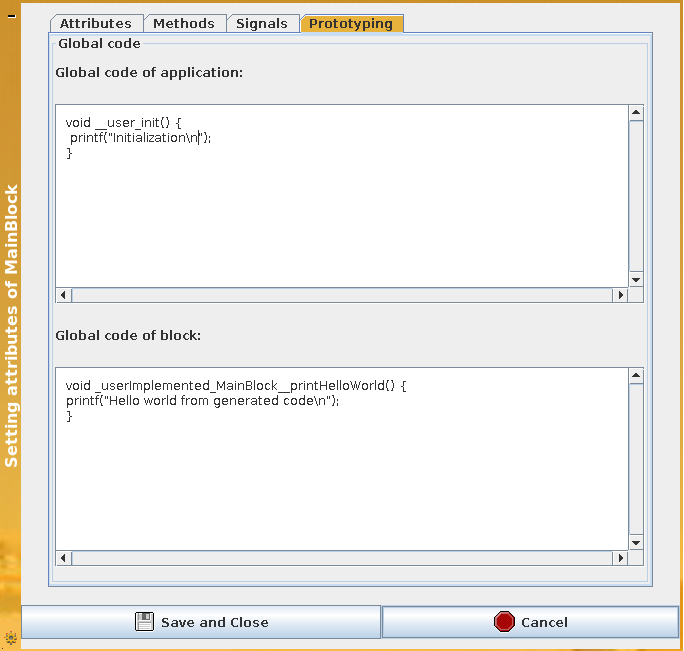
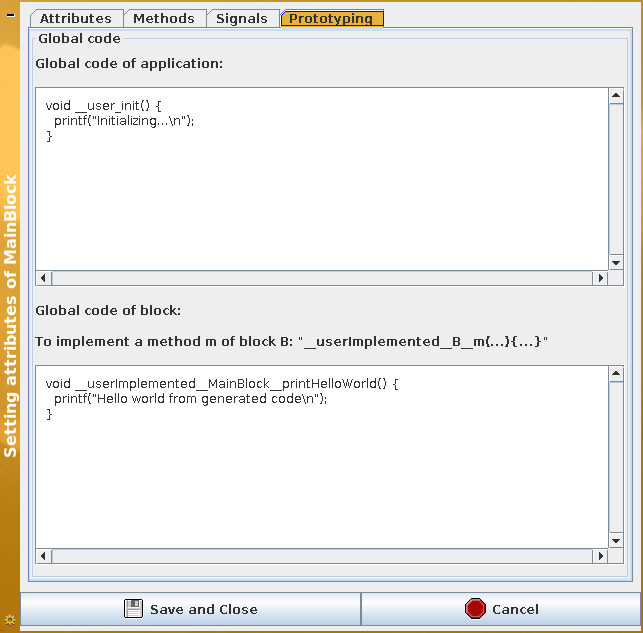
Update on code generation facility, adding one example, and update on code generation documentation

Changed region(s): [[0.0, 0.0, 1.0, 1.0], [0.0, 0.0, 0.0311, 0.03]]

diff --git a/doc/codegeneration/codegeneration_documentation.tex b/doc/codegeneration/codegeneration_documentation.tex
@@ -293,7 +293,7 @@ Basically, there are two types of custom code as show in the "prototyping" windo
 \begin{figure}[htbp]
 \centering
 \includegraphics[width=0.9\textwidth]{figures/customhelloworld}
-\caption{Executing the Hello world program} \label{fig:customhelloworld}
+\caption{Global code of an application and global code of a block} \label{fig:customhelloworld}
 \end{figure}
 
 \subsection{Global code}
@@ -309,9 +309,9 @@ void __user_init() {
 \end{lstlisting}
 
 \subsection{Block code}
-The block code typically contains variables that are not declared as block attributes. Block attributes can indeed be directly used in the custom code. The block code can also provide an implementation for the block methods. For a method called "method" of the block "block", the function must be declared as "\_userImplemented\_block\_method" and \textbf{you must ensure to check the "Implementation provided by the user" option} in the method definition window (see Figure \ref{fig:methodhelloworld}). For instance, the following code correesponds to the block code of "MainBlock". It implements the method \textit{printHelloWorld()} referenced in the model (see Figure \ref{fig:printhelloworld}).
+The block code typically contains variables that are not declared as block attributes. Block attributes can indeed be directly used in the custom code. The block code can also provide an implementation for the block methods. For a method called "method" of the block "block", the function must be declared as "\_\_userImplemented\_\_block\_\_method" and \textbf{you must ensure to check the "Implementation provided by the user" option} in the method definition window (see Figure \ref{fig:methodhelloworld}). For instance, the following code correesponds to the block code of "MainBlock". It implements the method \textit{printHelloWorld()} referenced in the model (see Figure \ref{fig:printhelloworld}).
 \begin{lstlisting}
-void _userImplemented_MainBlock__printHelloWorld() {
+void __userImplemented__MainBlock__printHelloWorld() {
   printf("Hello world from generated code\n");
 }
 \end{lstlisting}
@@ -341,8 +341,9 @@ This section explains how a code generated from TTool can be linked with an exte
 The TTool distribution includes an external software which represents a graphical user interface of a microwave system. The source code (in Java) of this software is located in "TTool/executablecode/example":
 \begin{lstlisting}
 $cd TTool/executablecode/example
-$ ls
-DatagramServer.java  Feeder.java  MainMicrowave.java  MicrowavePanel.java  README
+$ls
+DatagramServer.java  MainMicrowave.java           MicrowavePanel.java
+Feeder.java          MainPressureController.java  README
 \end{lstlisting}
 This directory contains the java sources as well as a README file. First compile the java source code, and then execute the GUI, as follows:
 \begin{lstlisting}
@@ -490,11 +491,11 @@ Then, we need to define the user defined C code for both \textit{openM()} and \t
 const char* openD = "Open Door";
 const char* closeD = "Close Door";
 
-void _userImplemented_Door__openM() {
+void __userImplemented__Door__openM() {
   sendDatagram(openD, 10);
 }
 
-void _userImplemented_Door__closeM() {
+void __userImplemented__Door__closeM() {
    sendDatagram(closeD, 10);
 }
 \end{lstlisting}
@@ -576,10 +577,10 @@ The method itself works as follows:
 \item It unlocks the mutex
 \end{enumerate}
 
-Then , the execution of the \textit{ControlPanel} block can continue with the sending of the "startButton" signal. Note that  this is thanks to the mutex facility that the datagram receinving facility and the \textit{ControlPanel} block cannot modify "start" at the same time.\\
+Then, the execution of the \textit{ControlPanel} block can continue with the sending of the "startButton" signal. Note that  this is thanks to the mutex facility that the datagram receinving facility and the \textit{ControlPanel} block cannot modify "start" at the same time.\\
 
 \begin{lstlisting}
-void _userImplemented_ControlPanel__start() {
+void __userImplemented__ControlPanel__start() {
   pthread_mutex_lock(&startMutex);
   printf("Waiting for next start");
   while(start < 1) {
@@ -590,6 +591,58 @@ void _userImplemented_ControlPanel__start() {
   printf("****** MW can start cooking\n");
 }
 \end{lstlisting}
+
+\newpage
+\section{Another exampe of advanced model enhancement with user code}\label{sec:otheradvanced}
+We now consider a PressureController (PC) system. This xml TTool model is available via the TTool model repository.
+\subsection{GUI}
+The TTool distribution includes an external software which represents a graphical user interface of the pressure controller environment: pressure sensor and alarm. The source code (in Java) of this software is located in "TTool/executablecode/example": \textit{MainPressureController.java}.
+ First compile the java source code, and then execute the GUI, as follows:
+\begin{lstlisting}
+$javac MainPressureController.java
+$java MainPressureController
+\end{lstlisting}
+A window similar to the one of Figure \ref{fig:guipc} should open. This window is not yet animated. To do so, we need to build the PC. The GUI and Pc exchange UDP packets to inform each other about modifications:
+\begin{itemize}
+\item Each time the slider is moved, a datagram packet with the pressure value is sent by GUI to PC.
+\item Each time the alarm actuator is triggered, a datagram packet is sent by PC to GUI. This packet contains "+" when the alarm must be activated, and "-" when it must be deactivated.
+\end{itemize}
+
+
+
+\begin{figure}[htbp]
+\centering
+\includegraphics[width=0.8\textwidth]{figures/guipc}
+\caption{Graphical User Interface of the Pressure Controller System} \label{fig:guipc}
+\end{figure}
+
+\subsection{Pressure Controller (PC)}
+The Pressure Controller is build upon a set of blocks representing the system itself, and two blocks representing the environment (the pressure sensor, and the alarm actuator), see Figure \ref{fig:pc}
+
+\begin{figure}[htbp]
+\centering
+\includegraphics[width=1\textwidth]{figures/PressureController}
+\caption{Pressure Controller System: Avatar Design} \label{fig:pc}
+\end{figure}
+
+Since we would like the pressure controller to interact with its environment, we have customized the methods of \textit{PressureSensor} and \textit{AlarmActuator}. 
+
+\subsubsection{PressureSensor}
+The pressure sensor (see Figure \ref{fig:ps}) monitors the pressure with a period of 1 unit of time. The model does not act the same when simulating the model or executing its code. To do this, we have a "IsInCode" method that is \textbf{not} executed when the model is considered for functional simulation or formal verification. Indeed, the "branch" boolean is set to false by default, so the random command is executed (and not the \textit{readingPressure()} method). On the contrary, when executing the C code of this model, \textit{IsIncode()} returns true, so \textit{branch} is equal to true, so the left branch is executed, and the pressure is read (\textit{readingPressure()}).  
+\begin{figure}[htbp]
+\centering
+\includegraphics[width=0.7\textwidth]{figures/pressuresensor}
+\caption{State Machine Diagram of Pressure Sensor} \label{fig:ps}
+\end{figure}
+
+\subsubsection{AlarmActuator}
+The alarm actuator (see Figure \ref{fig:aa}) waits for an oder to activate or deactivate the alarm. In both case, it calls a user implement method \textit{setAlarm()} with a different parameter ("true", "false").
+
+\begin{figure}[htbp]
+\centering
+\includegraphics[width=0.7\textwidth]{figures/alarmactuator}
+\caption{State Machine Diagram of Pressure Sensor} \label{fig:aa}
+\end{figure}
 
 
 \newpage
